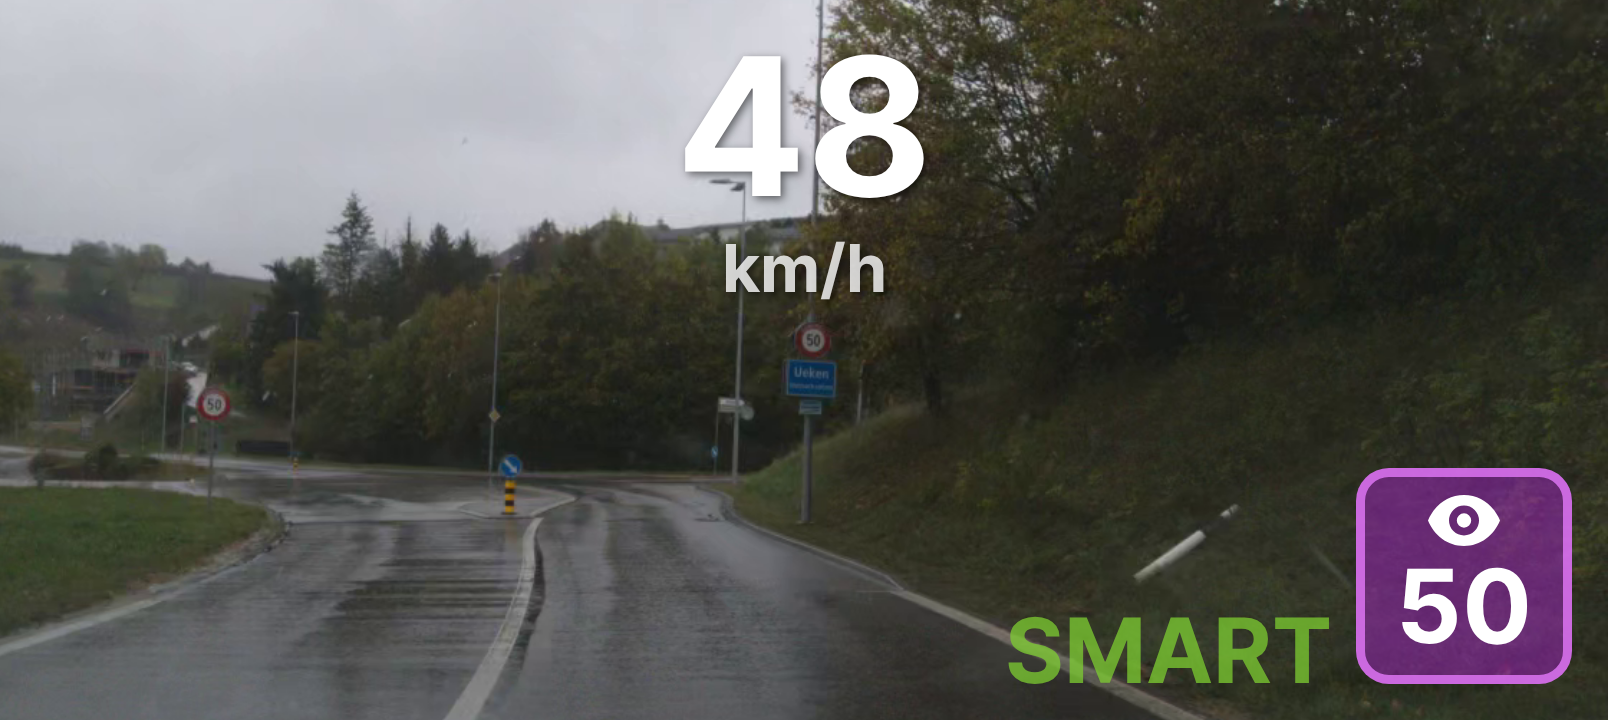
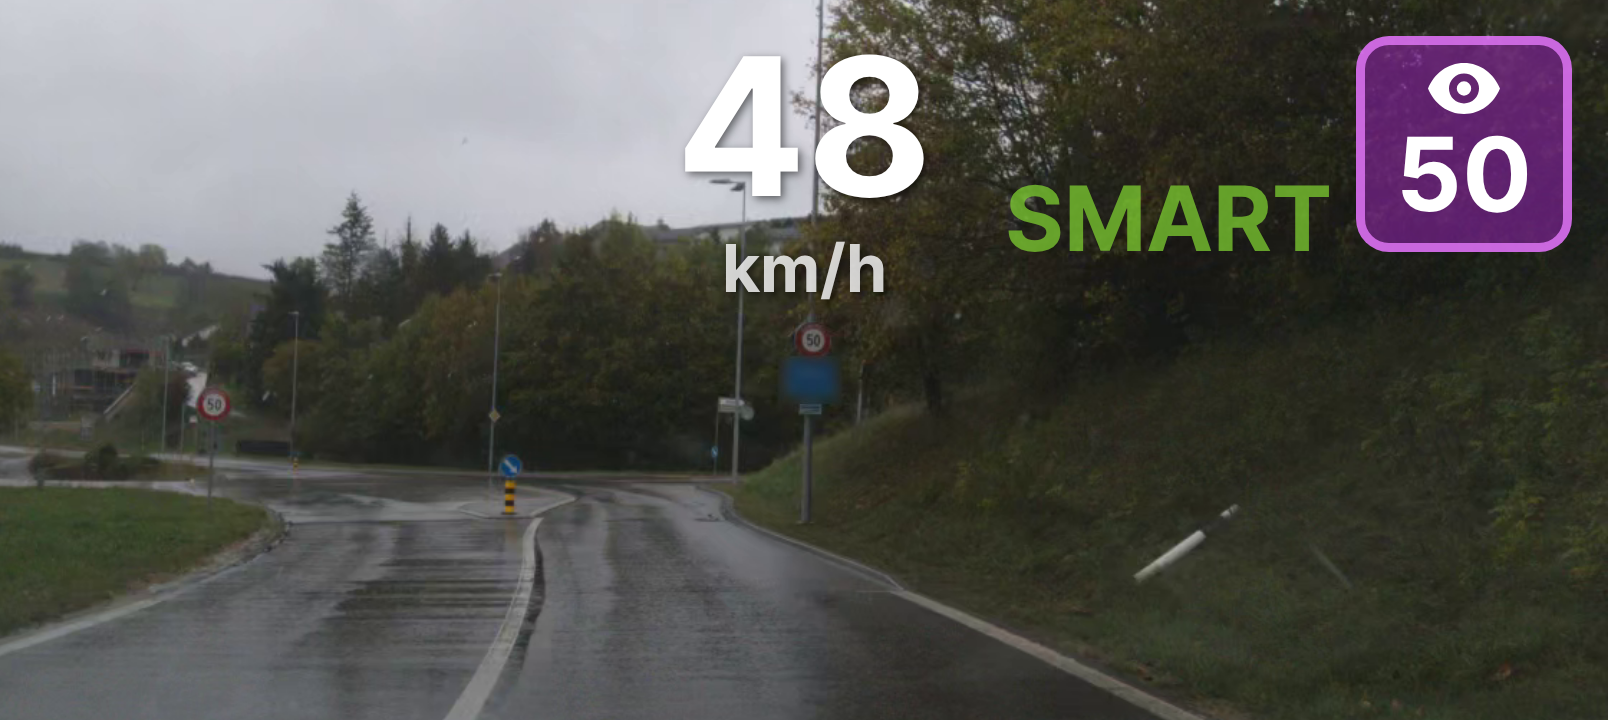
Screen pictures and README: the vision square and SMART in the top right corner
The GPU icon of the big model keeps the bottom right corner; the mock and the texts follow the car.

Changed region(s): [[0.6219, 0.0306, 0.995, 0.3667], [0.6219, 0.6417, 0.995, 0.9472]]

diff --git a/docs/smartspeed/index.html b/docs/smartspeed/index.html
@@ -191,7 +191,7 @@ footer p{max-width:var(--wide);margin:auto;border-top:1px solid var(--line);padd
   <p class="lead">You press cruise and the car picks its own speed.</p>
   <p class="sub">Two small networks read the signs. A third one, with memory, takes what they read, the road and what the car is doing, and says the speed to hold once a second. It's a research build that runs on my own comma 4, in a Peugeot 3008.</p>
   <figure class="screen"><img src="product/product-smartspeed-screen.jpg" width="1608" height="720"
-    alt="The comma 4 screen on a wet road: 48 km/h in the middle, and in the bottom right corner the word SMART in green beside a purple square with an eye and the number 50."></figure>
+    alt="The comma 4 screen on a wet road: 48 km/h in the middle, and in the top right corner the word SMART in green beside a purple square with an eye and the number 50."></figure>
   <p class="note">Mock-up, not a photo of the comma: the screen's widgets drawn at their real size over a real frame.</p>
   <div class="facts">
     <div><b>1 Hz</b><span>speed out of the brain</span></div>

diff --git a/README.md b/README.md
@@ -121,7 +121,7 @@ How the readings become the limit (`SpeedLimitMemory` in `sunnypilot/speed_limit
 - **Smartspeed** (sunnylink, 6 Nov 2026) is the fifth mode, after the factory Off, Information, Warning and Assist (`SpeedLimitMode` 4), which work as they did and keep their Speed Limit Source: map, car, or vision. It starts speedvisiond, shows the fuchsia square and uses **Map Data + Vision** (`SpeedLimitPolicy` 5): the brain's limit, or the map's when it has none. A source without the network moves to that one by itself, and stays there after leaving Smartspeed until another source is picked. In the factory modes **Show Vision Reading** shows the square for information only, above the factory limit.
 - Automatic on every car: the limit applies as soon as it is known. No confirmation and no set speed of 120/130 to confirm with (the Peugeot has no button for it).
 - The set speed is only on and off, never the target: the car drives to the limit, also above the set speed, keeps the last limit when it goes, and before any limit keeps the speed at engagement (40 km/h from a stop). Curves and a forced deceleration still win.
-- The driving screen shows the word **SMART**, pea green and see-through while it drives to a limit and grey without one, level with the bottom of the vision square and left of it, in the bottom right corner, and never the set speed. **+** or **-** on the car does nothing: the word blinks for a second to say so. The press that engages does not count.
+- The driving screen shows the word **SMART**, pea green and see-through while it drives to a limit and grey without one, level with the bottom of the vision square and left of it, in the top right corner, and never the set speed. **+** or **-** on the car does nothing: the word blinks for a second to say so. The press that engages does not count.
 - The map (when vision has no limit): a lower limit ahead is taken once the car is within its braking distance at 1 m/s², counted from the higher of the car's speed and the limit in force, and held to the sign. On sunnypilot master this never happens (the GPS age is Unix time taken from the time since boot), so the map slows the car only at the sign; fixed on `speed-limits` and proposed upstream from branch `speed-limit-resolver-gps-clock` (31 Oct 2026). The planner slows down at most 0.5 m/s², so the car still reaches the lower limit a little after the sign.
 - Vision's limit ahead goes through the same rule of the resolver (4 Nov 2026): a lower limit is taken within its braking distance, which for a sign read at 30 to 70 m is almost always at once; a higher limit waits for the sign. The distance only decides when the limit switches: Speed Limit Assist sends a target speed, its acceleration from the distance (`get_adapting_state_target_acceleration`) is not used, so the car slows down no harder than with the map.
 
